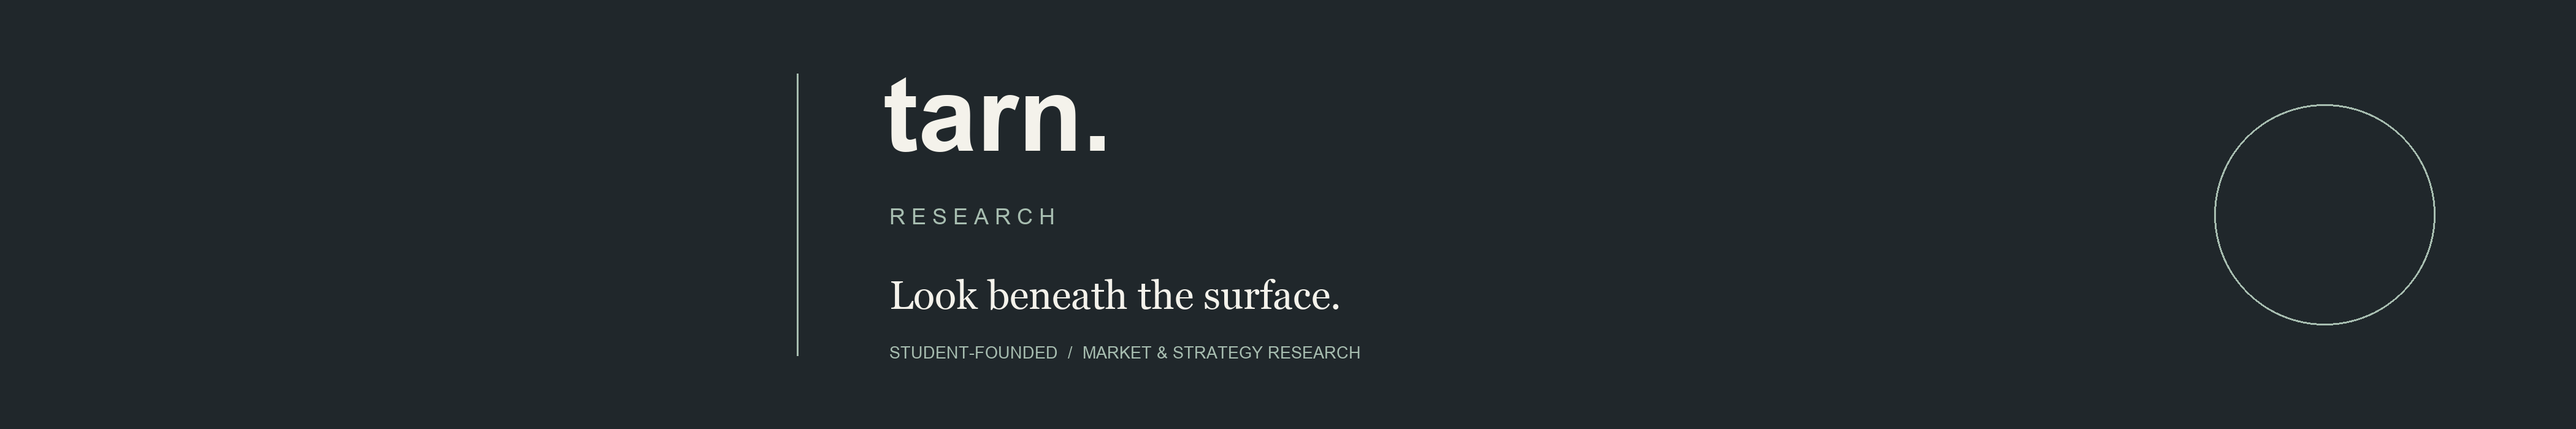
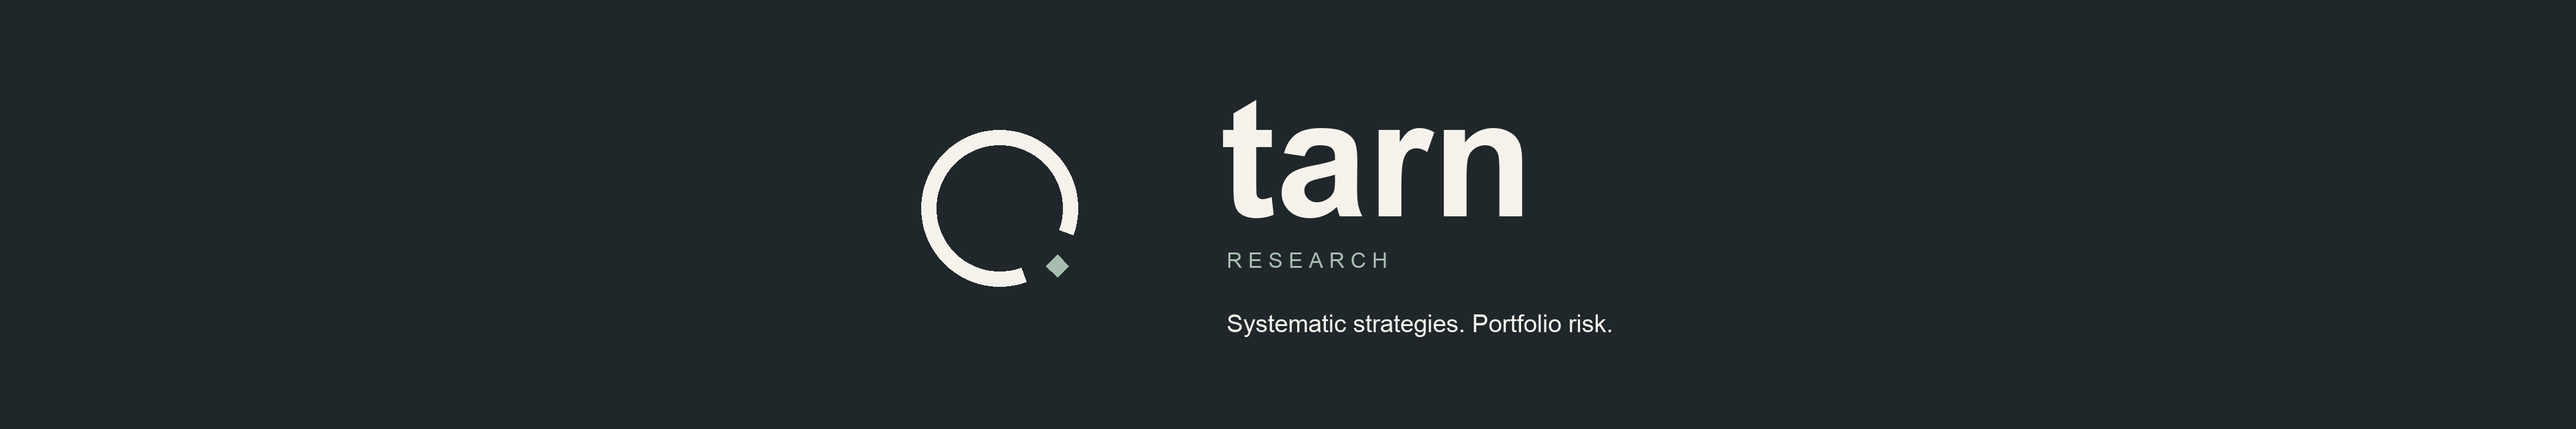
brand: apply ring identity and systematic research positioning

diff --git a/profile/README.md b/profile/README.md
@@ -1,22 +1,31 @@
-![Tarn Research — Look beneath the surface.](https://raw.githubusercontent.com/Tarn-Research/.github/main/assets/linkedin-banner.png)
+![Tarn Research systematic investment research](https://raw.githubusercontent.com/Tarn-Research/.github/main/assets/linkedin-banner.png)
 
 # Tarn Research
 
-### Look beneath the surface.
+Student-founded research on systematic investment strategies, portfolio construction, and market risk.
 
-Student-founded, independent market and investment strategy research.
+Tarn investigates investment rules using documented data, explicit trading assumptions, reproducible analysis, and plain-language reports. The practice is led by an Elon University student in North Carolina.
 
-We study market risk, investment strategies, and portfolio decisions through reproducible analysis. Each study states its question, sources, assumptions, benchmark, and limitations.
+## Current research
 
-## Research in development
+**TR-001 · Momentum, risk sizing, and diversified ETFs**
 
-- **Market risk notes** measures monthly returns, annualized volatility, and maximum drawdown from a validated CSV.
-- **Strategy studies** compares a lagged moving-average rule with buy-and-hold, including turnover costs.
+A fixed monthly allocation rule compared with 60/40, equal-weight ETFs, and SPY buy-and-hold. The research includes realistic signal delays, buy-and-sell costs, portfolio drift, ablations, sensitivity checks, and a full monthly ledger.
 
-The starter projects are under private review. Their demonstration data is synthetic. Research findings will be shared after source and methodology review.
+The first historical study finds a lower worst month-end drawdown than 60/40 alongside a lower annualized return and Sharpe. These are retrospective hypothetical findings. The initial prospective allocation has been recorded. Completed prospective return observations are currently zero.
+
+The full study is under private review. Public code, data, and report links will be added after release approval and licensing review.
+
+## Planned studies
+
+- Small Bitcoin allocations in diversified portfolios.
+- Volatility-management rules and rebalancing tradeoffs.
 
 ## Research standards
 
-Record data provenance and usage rights. Separate exploratory work from a pre-specified holdout. Include costs, negative results, and a reproducible command. Publish corrections with a dated explanation.
+- Document source provenance, assumptions, and missing evidence.
+- Keep historical simulations separate from prospective model observations.
+- Preserve unsuccessful tests and avoid promoting the best in-sample setting.
+- Publish limitations and correction records alongside results.
 
-Educational and informational research. Historical and simulated results have limitations. Investment involves risk, including loss of capital.
+Tarn is developing its research practice. Investment results are uncertain and historical performance does not establish future profitability.
